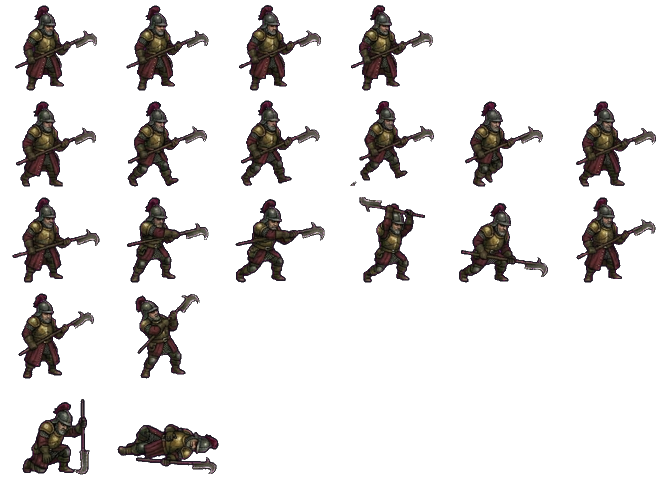
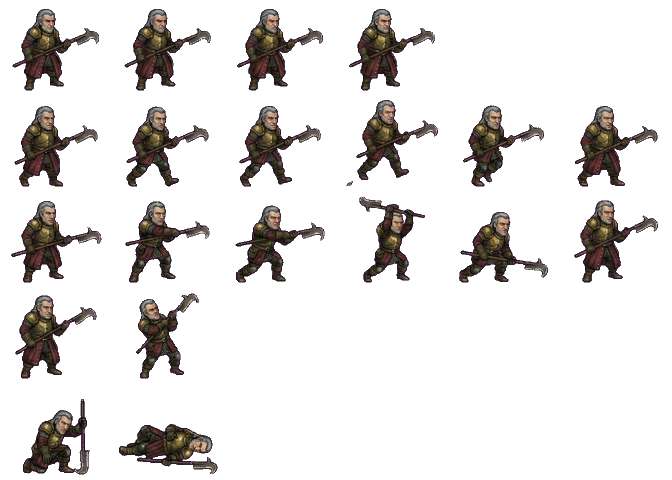
Art/UI: Act 1 boss sheets and Style 2 region-map grounds
Gemini items SW-31..SW-36 (placeholders):
- units/warrior/captain_vane redone bareheaded to match his portrait (SW-31)
- units/warrior/proctor_quell, units/brawler/guild_master_orlov,
  units/warrior/overseer_grendel painted sheets (SW-32..34), mirrored to face right
- tilesets/sunk_ward/ground/*/v0.png replaced by the Style 2 ground set
  (SW-35, SW-36) with a README

Claude-Session: https://claude.ai/code/session_01JD4WxupqfcwM94tcKTPs1a

diff --git a/games/emberwake/assets/tilesets/sunk_ward/ground/README.md b/games/emberwake/assets/tilesets/sunk_ward/ground/README.md
@@ -1,0 +1,17 @@
+# tilesets/sunk_ward/ground: Sunk Ward region-map ground textures (placeholder)
+
+Each `<ground>/v0.png` is a 256 x 256 seamless texture at 32 px per map tile (8 x 8 tiles), drawn under the region
+maps by their `ground` grid. Since 2026-11-22 these are the Style 2 set (Gemini items SW-35 and SW-36, Art/UI): one
+512 x 512 quadrant per ground, scaled to half. They replace the flat 2026-11-15 fills (decision "Placeholder-first
+assets"); finals replace them in place.
+
+| Ground | Look | Average luma |
+| --- | --- | --- |
+| `flagstone` | Worn grey-green basalt flagstones about one tile each, moss in the joints (the Grate reference's quay) | 44 |
+| `cobble_road` | The battle floor's setts at half size | 40 |
+| `soot_yard` | Packed soot-black earth with ash grit and loose stones | 30 |
+| `mud` | Grey-brown wet silt with ripples | 31 |
+| `iron_catwalk` | Riveted iron grating, one plate a tile | 37 |
+| `water` | Still dark green canal water with a few lantern glints | 20 |
+| `moss` | Damp stone almost covered in dark moss | 32 |
+| `tallow` | Tallow-splashed flagstones with wax drips | 36 |

diff --git a/games/emberwake/assets/units/warrior/captain_vane/README.md b/games/emberwake/assets/units/warrior/captain_vane/README.md
@@ -1,8 +1,9 @@
 # warrior/captain_vane: the Captain Vane's painted frame sheet (placeholder)
 
-Gemini Style 2 frame sheet (item SW-29, accepted by Art/UI 2026-11-21): Act 1 boss: dented gilded cuirass over the rust-crimson Watch surcoat, plumed kettle helm, grey stubble and a long Watch bill. Keyed, mirrored to face right (the stage
-mirrors it for enemies) and cut to the game's layout. A placeholder until the finals (decision "Placeholder-first
-assets").
+Gemini Style 2 frame sheet (items SW-29 and SW-31, accepted by Art/UI 2026-11-22): Act 1 boss: dented gilded cuirass
+over the rust-crimson Watch surcoat, bareheaded with long swept-back grey hair as in his portrait, grey stubble and a
+long Watch bill. Keyed, mirrored to face right (the stage mirrors it for enemies) and cut to the game's layout. A
+placeholder until the finals (decision "Placeholder-first assets").
 
 - `sheet.png`: 672 x 480, one clip per row, frames left to right, each frame 112 x 96 (`clips.json` `frame`), feet on
   pixel row 93 (`foot`), facing 3/4 right.

diff --git a/games/emberwake/assets/units/brawler/guild_master_orlov/README.md b/games/emberwake/assets/units/brawler/guild_master_orlov/README.md
@@ -1,0 +1,11 @@
+# brawler/guild_master_orlov: Guild-Master Orlov's painted frame sheet (placeholder)
+
+Gemini Style 2 frame sheet (item SW-33, accepted by Art/UI 2026-11-22): Act 1 boss: huge, bald and black-bearded, butcher's apron with harness straps, back tank and two flensing hooks on chains. Matches the boss portrait. Keyed,
+mirrored to face right (the stage mirrors it for enemies) and cut to the game's layout. A placeholder until the
+finals (decision "Placeholder-first assets").
+
+- `sheet.png`: 672 x 480, one clip per row, frames left to right, each frame 112 x 96 (`clips.json` `frame`), feet on
+  pixel row 93 (`foot`), facing 3/4 right.
+- Rows: `idle` 4, `walk` 6, `attack` 6 (hook throws on chains, impact on frame 2), `hurt` 2, `death` 2.
+- `clips.json` marks it `painted: true` (SCREEN_CONTRACT_BATTLE 8.1 D5). The unit row `guild_master_orlov` still names `brawler/base` until
+  Build points it here.

diff --git a/games/emberwake/assets/units/warrior/proctor_quell/README.md b/games/emberwake/assets/units/warrior/proctor_quell/README.md
@@ -1,0 +1,11 @@
+# warrior/proctor_quell: Proctor Quell's painted frame sheet (placeholder)
+
+Gemini Style 2 frame sheet (item SW-32, accepted by Art/UI 2026-11-22): Act 1 boss: bald crown, long dark back hair, blood-spattered surgeon's coat, beak mask at the chest, neck valve and two bone saws. Matches the boss portrait. Keyed,
+mirrored to face right (the stage mirrors it for enemies) and cut to the game's layout. A placeholder until the
+finals (decision "Placeholder-first assets").
+
+- `sheet.png`: 672 x 480, one clip per row, frames left to right, each frame 112 x 96 (`clips.json` `frame`), feet on
+  pixel row 93 (`foot`), facing 3/4 right.
+- Rows: `idle` 4, `walk` 6, `attack` 6 (twin saw slashes, impact on frame 2), `hurt` 2, `death` 2.
+- `clips.json` marks it `painted: true` (SCREEN_CONTRACT_BATTLE 8.1 D5). The unit row `proctor_quell` still names `warrior/2h_sword` until
+  Build points it here.

diff --git a/games/emberwake/assets/units/warrior/overseer_grendel/README.md b/games/emberwake/assets/units/warrior/overseer_grendel/README.md
@@ -1,0 +1,11 @@
+# warrior/overseer_grendel: Overseer Grendel's painted frame sheet (placeholder)
+
+Gemini Style 2 frame sheet (item SW-34, accepted by Art/UI 2026-11-22): Act 1 boss: iron furnace half-helm, white mutton chops, foundry apron and a pneumatic piston-maul. Matches the boss portrait. Keyed,
+mirrored to face right (the stage mirrors it for enemies) and cut to the game's layout. A placeholder until the
+finals (decision "Placeholder-first assets").
+
+- `sheet.png`: 672 x 480, one clip per row, frames left to right, each frame 112 x 96 (`clips.json` `frame`), feet on
+  pixel row 93 (`foot`), facing 3/4 right.
+- Rows: `idle` 4, `walk` 6, `attack` 6 (maul slam with a piston kick, impact on frame 2), `hurt` 2, `death` 2.
+- `clips.json` marks it `painted: true` (SCREEN_CONTRACT_BATTLE 8.1 D5). The unit row `overseer_grendel` still names `warrior/2h_hammer` until
+  Build points it here.
